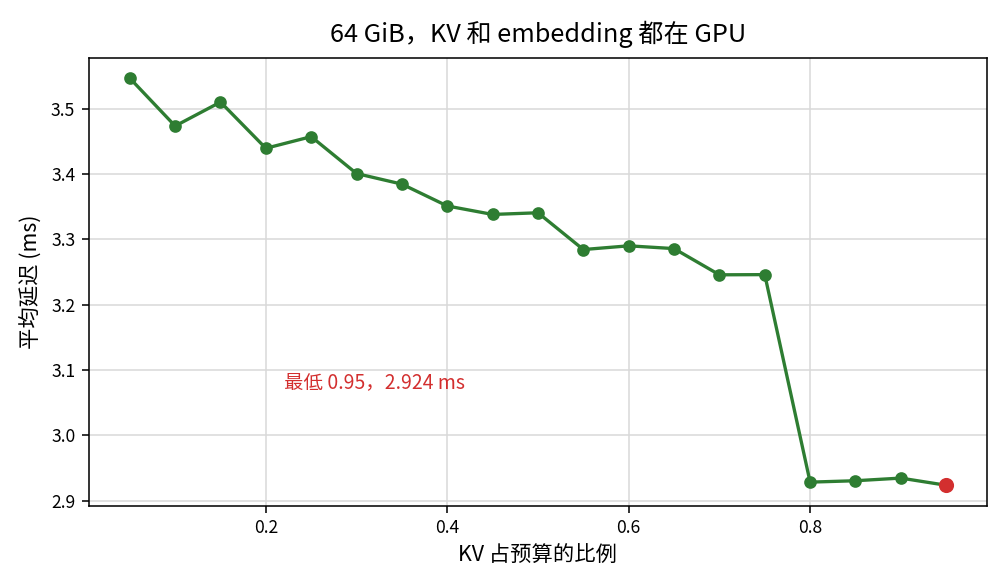
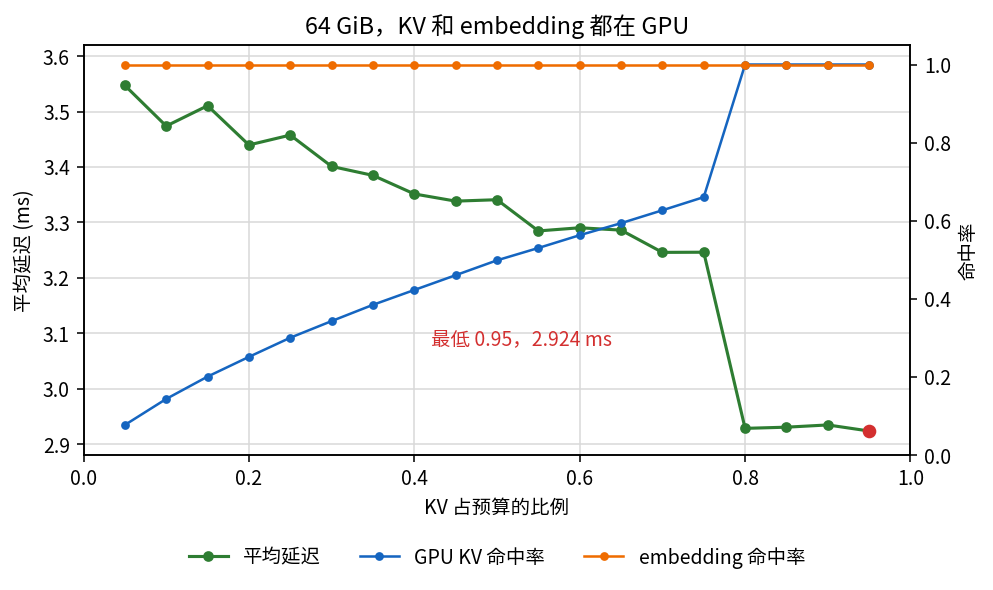
Add the GPU and CPU KV cache-ratio writeup.

Changed region(s): [[0.0, 0.0306, 0.999, 0.9796]]

diff --git a/examples/hstu/inference/benchmark/cache_ratio_gpu_host.md b/examples/hstu/inference/benchmark/cache_ratio_gpu_host.md
@@ -1,0 +1,94 @@
+Total cache size: GPU 上的 KV cache 和 embedding cache 总量固定为 16 / 32 / 64 GiB。
+
+Workload: 取 KuaiRand-27K 前半段，序列末尾 100 个 video 当作候选，再往前当作历史。因此 KV 全部命中时所需要的 cache size = 48.72 GiB，embedding 全部命中时所需要的 cache size = 3.08 GiB。
+Model: `kuairand_1k_inference_ranking.gin`：N = 3，H = 4，d = 128，d_h = 512，s = 1024，t = 2048，c = 100。
+
+Cache ratio: 0.05 - 0.95, 步长 = 0.05
+
+# Phase1: KV miss uses recompute，embedding miss use CPU parameter table.
+
+KV miss 直接在 GPU 上重算。embedding miss 进 CPU 参数表。
+
+每张图的左轴是平均延迟，右轴是命中率。蓝线是 GPU KV token 命中率。橙线是 embedding 命中率。
+
+对于 KV 而言。\(L_{\mathrm{miss}}-L_{\mathrm{hit}}=0.060-0.00788=0.052\mathrm{ms}\)。
+
+对于 embedding cache 而言，\(L_{\mathrm{miss}}-L_{\mathrm{hit}}=0.031\mathrm{\mu s}\)。
+
+## Total Cache size = 16 GiB
+
+![16 GiB GPU 平均延迟和命中率](figures/gpu_16_latency_hit.png)
+
+平均延迟随着 KV cache ratio 的增加而呈下降趋势。当 KV 比例 ≤ 0.80 时，embedding cache ≥ 16 × (1 − 0.80) = 3.20 GiB，embedding 命中率是 1。
+
+因此，当 KV cache ratio < 0.80 时，embedding 的 hit rate = 1，latency 只和 KV 有关，随着 KV cache 增大，latency 逐渐减小。
+
+当 KV cache ratio > 0.80 时，embedding hit rate < 1（KV cache ratio = 0.85、0.90、0.95 降到 0.830、0.710、0.555）。一次 embedding miss 只有 0.031 µs，远小于 KV 命中省下的 0.31 ms。因此随着 KV cache ratio 增大，latency 降低。
+
+## Total Cache size = 32 GiB
+
+![32 GiB GPU 平均延迟和命中率](figures/gpu_32_latency_hit.png)
+
+平均延迟随着 KV cache ratio 的增加而呈下降趋势。当 KV 比例 ≤ 0.90 时，embedding cache ≥ 32 × (1 − 0.90) = 3.20 GiB，embedding 命中率是 1。
+
+因此，当 KV cache ratio < 0.90 时，embedding 的 hit rate = 1，latency 只和 KV 有关，随着 KV cache 增大，latency 逐渐减小。
+
+当 KV cache ratio > 0.90 时，只有 0.95 这一格，embedding hit rate 降到 0.691。一次 embedding miss 只有 0.031 µs，小于 KV 命中省下的 0.51 ms。
+
+## Total Cache size = 64 GiB
+
+![64 GiB GPU 平均延迟和命中率](figures/gpu_rerun_64_mean.png)
+
+首先 KV cache ratio 从 0.05 - 0.95，embedding cache > 3.2GiB, embedding 是一定命中。当 KV cache ratio > 0.8 时，KV 开始全部命中。
+因此，平均延迟随着 KV cache ratio 的增加而下降，KV 全中之后逐渐平缓。
+
+# Phase2: KVCache and embedding cache in GPU，KV miss first CPU load and recompute，embedding miss use CPU parameter table.
+
+GPU 上的划分和 Phase1 相同。另外加一块固定的 32 GiB CPU KV cache (CPU hit rate： ～0.4)。KV 先查 GPU，没有再查这块 CPU cache，两边都没有才重算。embedding miss 仍进 CPU 参数表。
+
+
+图的左轴仍是平均延迟，右轴是 GPU KV token 命中率和 embedding 命中率。
+
+对于 KV 而言，三条路径是 GPU 命中 7.88 µs，CPU 命中 0.208 ms，重算 0.060 ms。
+
+CPU 相对 GPU，\(0.208-0.00788=0.200\mathrm{ms}\)。
+重算相对 GPU，\(0.060-0.00788=0.052\mathrm{ms}\)。
+重算相对 CPU，\(L_{\mathrm{miss}}-L_{\mathrm{hit}}=0.060-0.208=-0.148\mathrm{ms}\)。
+
+对于 embedding cache 而言，\(L_{\mathrm{miss}}-L_{\mathrm{hit}}=0.031\mathrm{\mu s}\)。
+
+
+## Total Cache size = 16 GiB
+
+![16 GiB GPU 预算加 32 GiB CPU KV](figures/gpu_host32_16_marked.png)
+
+当 KV 比例 ≤ 0.80 时，embedding cache ≥ 16 × (1 − 0.80) = 3.20 GiB，命中率是 1。GPU KV 最大 12.80 GiB，小于 48.72 GiB，没有 KV 全部在 GPU 命中。
+KV cache ratio = 0.05 时：GPU 命中 0.012，CPU 命中 0.430，重算 0.558。
+KV cache ratio = 0.80：GPU 命中 0.256，CPU 命中 0.200，重算 0.544。
+
+因此，随着 KV Cache ratio 的增加，GPU 命中率增加，GPU latency < CPU latency，因此平均延迟下降。
+
+当 KV 比例 > 0.80 时，embedding hit rate 降到 0.559。随着 KV Cache ratio 的增加，GPU 命中率增加，embedding hit rate 下降，但是 KV cache 收益 > embedding 收益，所以 latency 同样下降。0.40 的 4.471 ms 和 0.50 的 4.478 ms 是抖动。最低在 0.95，4.479 ms。
+
+## Total Cache size = 32 GiB
+
+![32 GiB GPU 预算加 32 GiB CPU KV](figures/gpu_host32_32_mean.png)
+
+当 KV 比例 ≤ 0.90 时，embedding cache ≥ 32 × (1 − 0.90) = 3.20 GiB，命中率是 1。GPU KV 最大 28.80 GiB，小于 48.72 GiB，没有 KV 全部在 GPU 命中。
+KV cache ratio = 0.05 时：GPU 命中 0.036，CPU 命中 0.415，重算 0.549。
+KV cache ratio = 0.90：GPU 命中 0.466，CPU 命中 0.027，重算 0.507。
+
+因此，随着 KV Cache ratio 的增加，GPU 命中率增加，GPU latency < CPU latency，因此平均延迟下降。
+
+当 KV 比例 > 0.90 时，只有 0.95 这一格，embedding hit rate 降到 0.692。随着 KV Cache ratio 的增加，GPU 命中率增加，embedding hit rate 下降，但是 KV cache 收益 > embedding 收益，所以 latency 同样下降。
+
+## Total Cache size = 64 GiB
+
+
+![64 GiB GPU 预算加 32 GiB CPU KV](figures/gpu_host32_64_latency_hit.png)
+
+当 KV 比例 ≤ 0.95 时，embedding cache ≥ 64 × (1 − 0.95) = 3.20 GiB，命中率是 1。KV 全部在 GPU 命中从比例 0.80 开始，GPU KV = 51.20 GiB，大于 48.72 GiB。
+KV cache ratio = 0.05 时：GPU 命中 0.073，CPU 命中 0.378，重算 0.549。
+KV cache ratio = 0.80：GPU 命中 1，CPU 命中 0，重算 0。
+
+因此，随着 KV Cache ratio 的增加，GPU 命中率增加，GPU latency < CPU latency，因此平均延迟下降。比例 ≥ 0.80 的 0.80、0.85、0.90、0.95 都是最低这一档，延迟在 3.935–4.044 ms。KV 已经全部在 GPU 命中，embedding hit rate 仍是 1。
